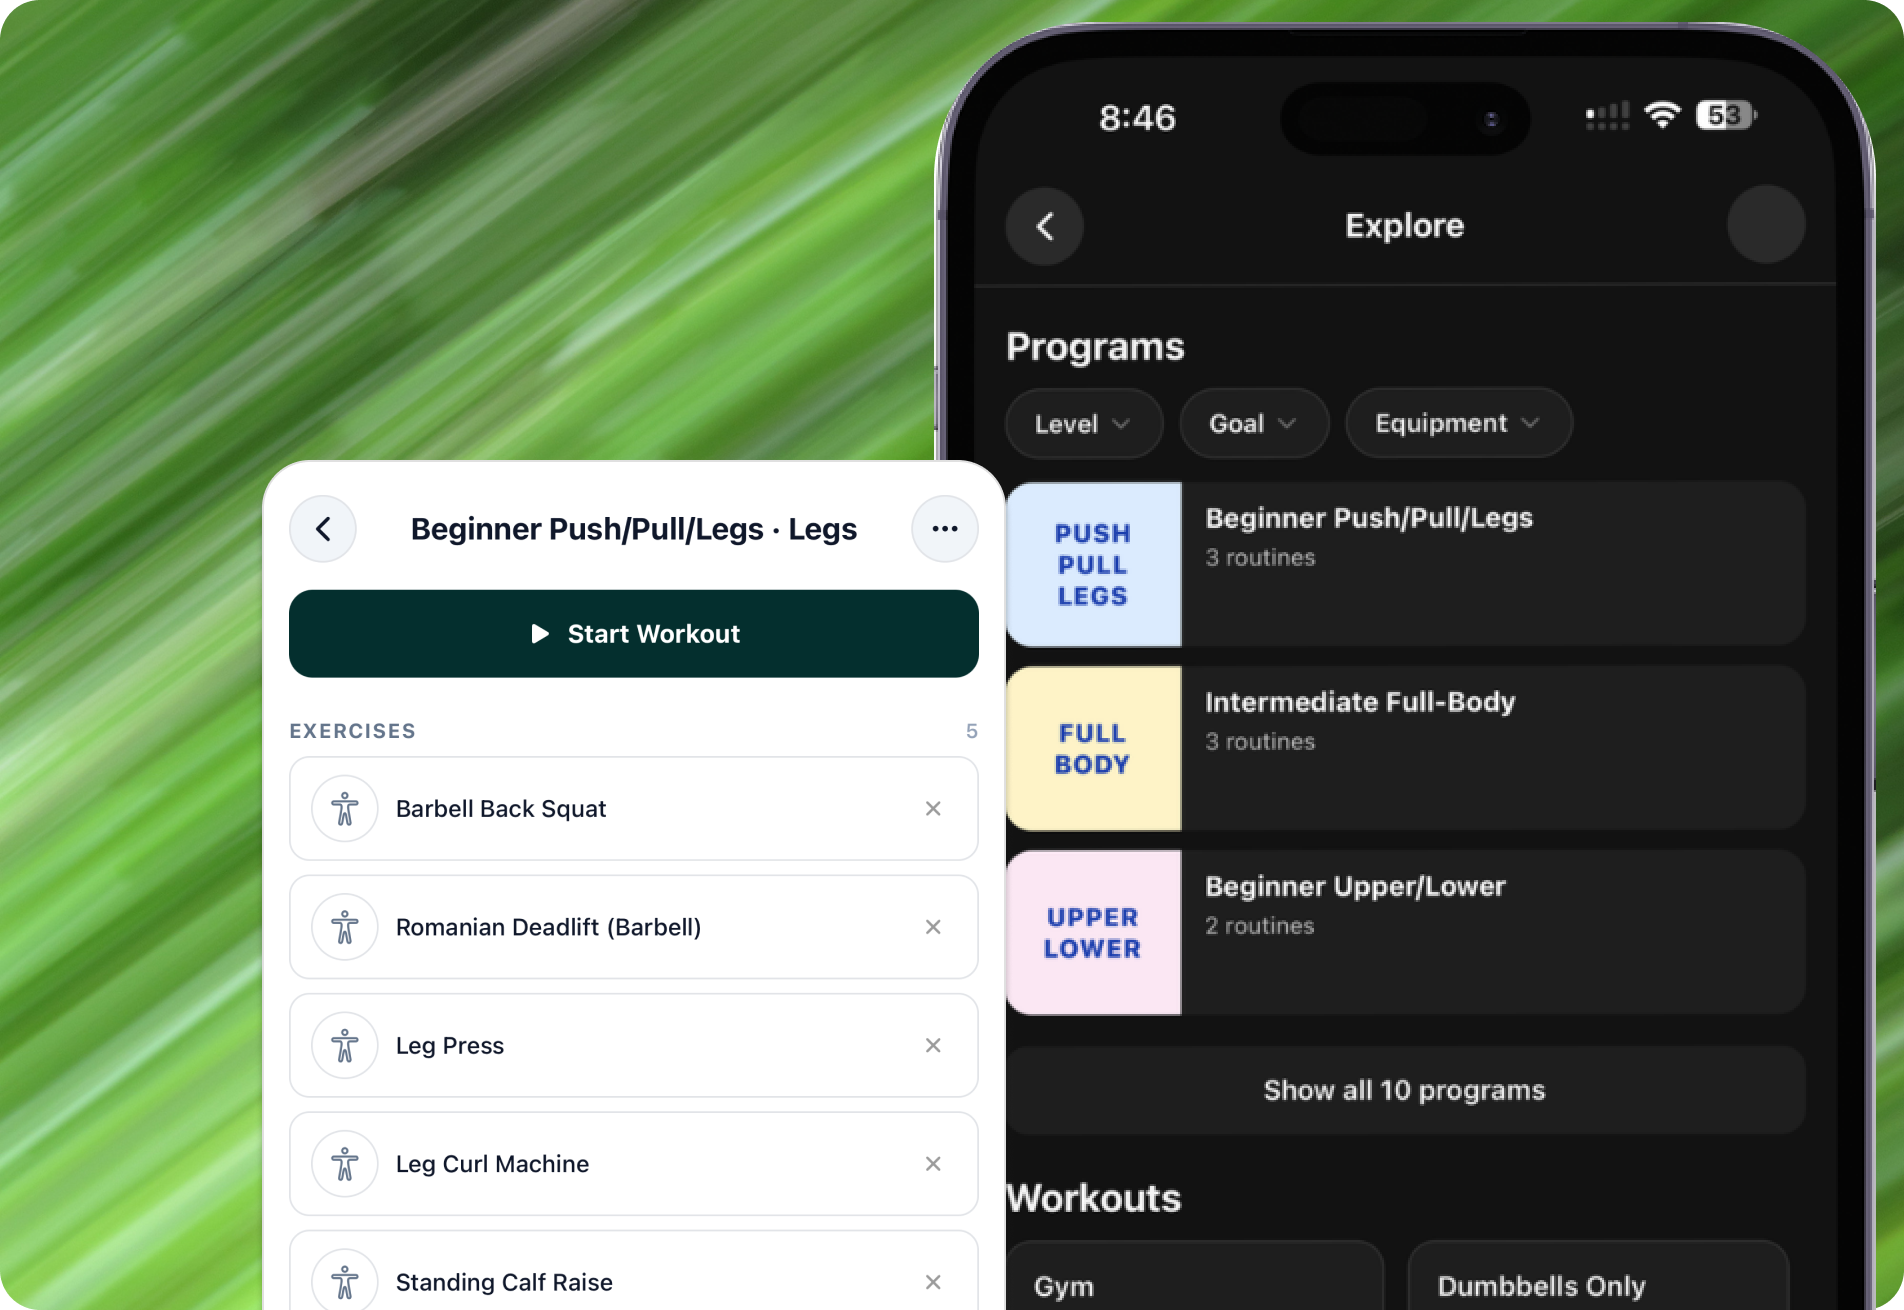
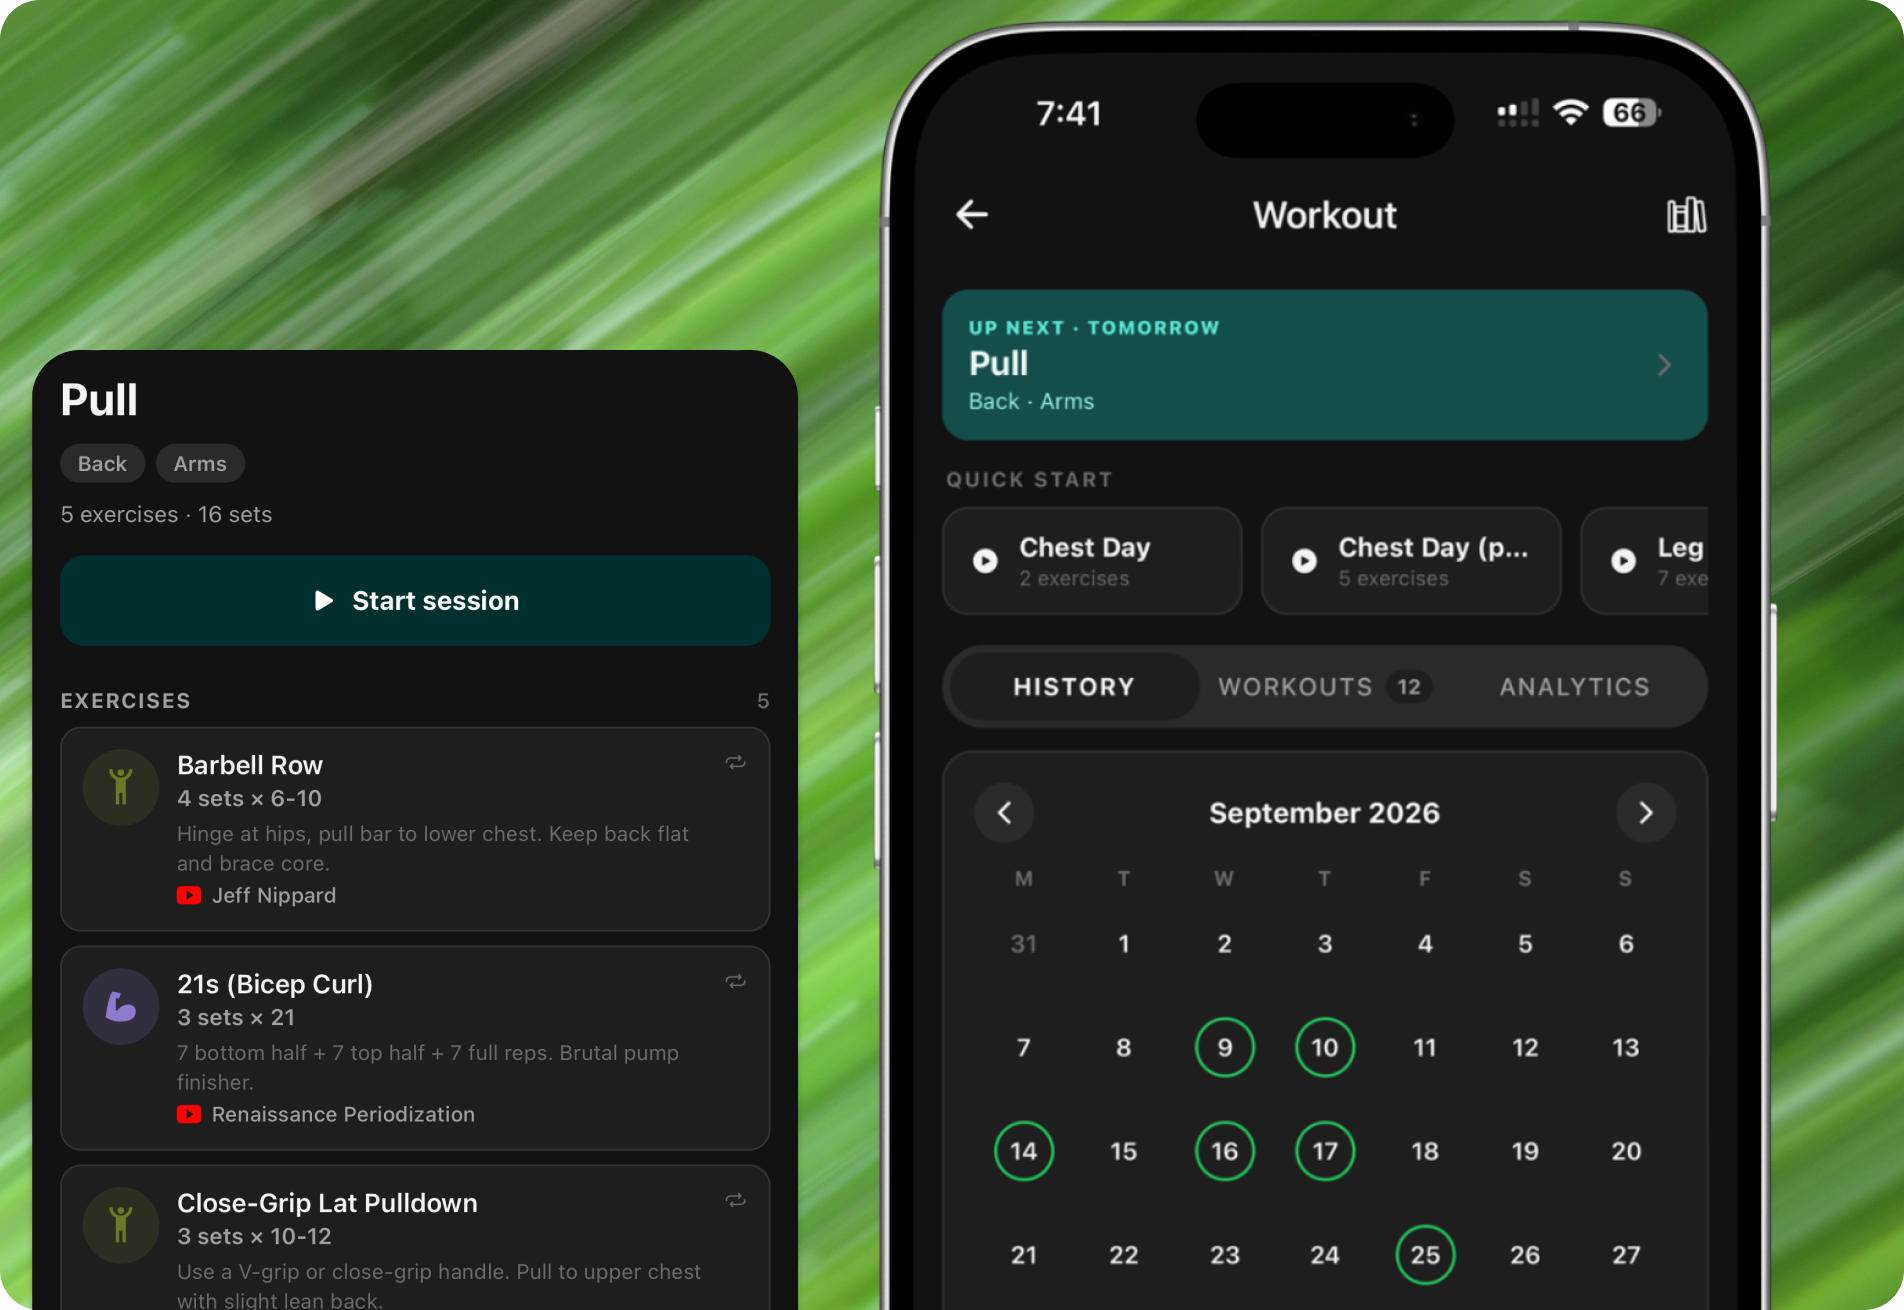
Module screenshots, and a case "fix" that broke the thing it fixed
Expenses and Workout screenshots added and updated.

Reverting my own change from c1621c0. I pointed the Subscriptions card at
"Subscription screenshot.png" because `ls` showed the file that way and
concluded the capitalised path in the code was a production 404. It was not.
macOS is case-insensitive and core.ignorecase is true, so `ls` reported the
casing the file happened to be written with locally while git went on tracking
"Subscription Screenshot.png". Vercel checks out what GIT holds, so my
lowercase reference was the 404, not the thing I set out to fix.

Checked against `git ls-files` this time rather than `ls`. All fourteen module
paths resolve, and the earlier audit that used `ls` was worthless on this
filesystem: it cannot distinguish the two cases at all.

Subscription screenshot.png is untouched here. It was modified on disk at
22:13 but is byte-identical to what is already committed, same sha256 and the
same 1,895,172 bytes, so there is nothing to record.

Expenses Screenshot.png is 952x655 where every other module shot is 1904x1310.
It renders correctly at the same aspect but will look soft beside its
neighbours on a retina display. Worth re-exporting at 1904 wide; the path is
already right, so no code change is needed when it lands.

Claude-Session: https://claude.ai/code/session_015WtTFcsNpGwyDq9TL7pnHj

diff --git a/src/components/ModuleShowcase.tsx b/src/components/ModuleShowcase.tsx
@@ -147,7 +147,13 @@ const utilities = [
     title: "Subscriptions",
     description:
       "See every recurring charge in one place. Know exactly where your money goes before the next billing cycle hits.",
-    image: "/images/modules/Subscription screenshot.png",
+    // Capital S, matching what git tracks. An earlier "fix" here pointed at the
+    // lowercase name because `ls` showed it that way: macOS is case-insensitive
+    // and core.ignorecase is true, so git reported no change while still
+    // holding the capitalised path. Vercel checks out what GIT has, so the
+    // lowercase reference would have 404'd in production. Verify with
+    // `git ls-files`, never with `ls`.
+    image: "/images/modules/Subscription Screenshot.png",
     icon: (
       <svg width="20" height="20" viewBox="0 0 24 24" fill="none" stroke="currentColor" strokeWidth="1.5" strokeLinecap="round" strokeLinejoin="round">
         <rect x="1" y="4" width="22" height="16" rx="2" ry="2" />
